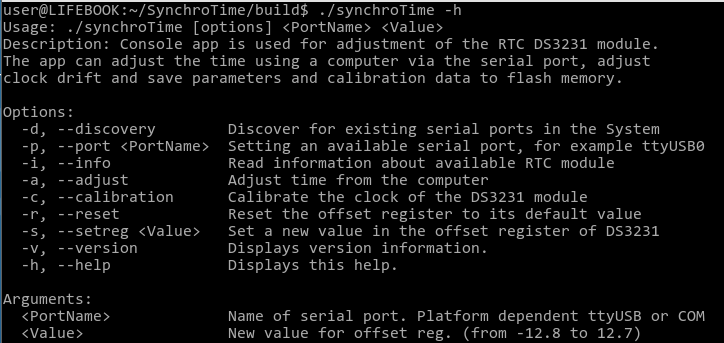
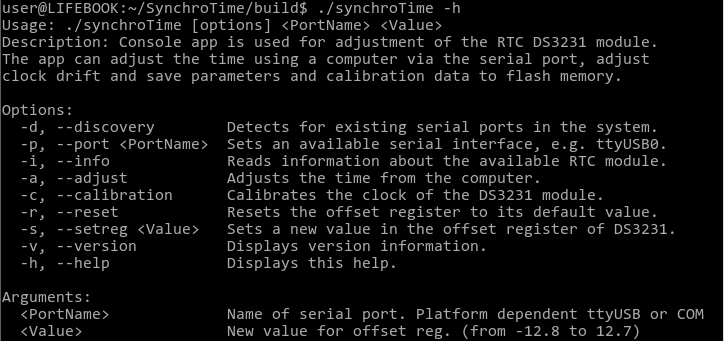
fixed menu interface

diff --git a/SynchroTimeCon/helper.cpp b/SynchroTimeCon/helper.cpp
@@ -60,40 +60,40 @@ void setCommandLineParser( QCommandLineParser &parser )
 
 #ifndef GUI_APP
     QCommandLineOption discovery( QStringList() << DISCOVERY << "discovery",
-                                       QCoreApplication::translate( "main", "Discover for existing serial ports in the System" ),
+                                       QCoreApplication::translate( "main", "Detects for existing serial ports in the system." ),
                                        QCoreApplication::translate( "main", "" ), "0" );
     parser.addOption( discovery );
 #endif
 
     QCommandLineOption portName( QStringList() << PORT << "port",
-                                       QCoreApplication::translate( "main", "Setting an available serial port, for example ttyUSB0" ),
+                                       QCoreApplication::translate( "main", "Sets an available serial interface, e.g. ttyUSB0." ),
                                        QCoreApplication::translate( "main", "PortName" ), "1" );
     parser.addOption( portName );
 
     QCommandLineOption information( QStringList() << INFO << "info",
-                                       QCoreApplication::translate( "main", "Read information about available RTC module" ),
+                                       QCoreApplication::translate( "main", "Reads information about the available RTC module." ),
                                        QCoreApplication::translate( "main", "" ), "0" );
     parser.addOption( information );
 
     QCommandLineOption adjustment( QStringList() << ADJUST << "adjust",
-                                       QCoreApplication::translate( "main", "Adjust time from the computer" ),
+                                       QCoreApplication::translate( "main", "Adjusts the time from the computer." ),
                                        QCoreApplication::translate( "main", "" ), "0" );
     parser.addOption( adjustment );
 
 #ifndef GUI_APP
     QCommandLineOption calibration( QStringList() << CALIBR << "calibration",
-                                       QCoreApplication::translate( "main", "Calibrate the clock of the DS3231 module" ),
+                                       QCoreApplication::translate( "main", "Calibrates the clock of the DS3231 module." ),
                                        QCoreApplication::translate( "main", "" ), "0" );
     parser.addOption( calibration );
 #endif
 
     QCommandLineOption reset( QStringList() << RESET << "reset",
-                                       QCoreApplication::translate( "main", "Reset the offset register to its default value" ),
+                                       QCoreApplication::translate( "main", "Resets the offset register to its default value." ),
                                        QCoreApplication::translate( "main", "" ), "0" );
     parser.addOption( reset );
 
     QCommandLineOption setregister( QStringList() << SETREG << "setreg",
-                                       QCoreApplication::translate( "main", "Set a new value in the offset register of DS3231" ),
+                                       QCoreApplication::translate( "main", "Sets a new value in the offset register of DS3231." ),
                                        QCoreApplication::translate( "main", "Value"), "1" );
     parser.addOption( setregister );
 
